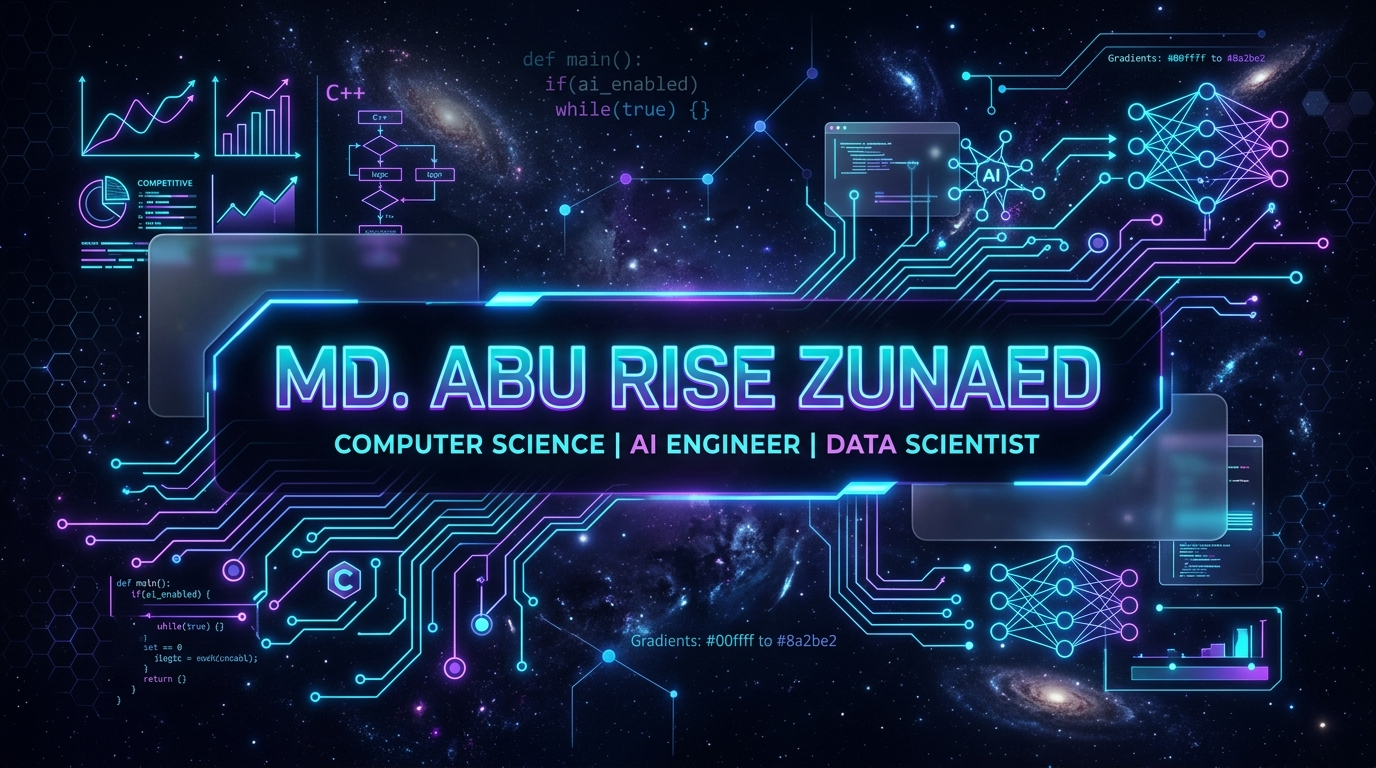
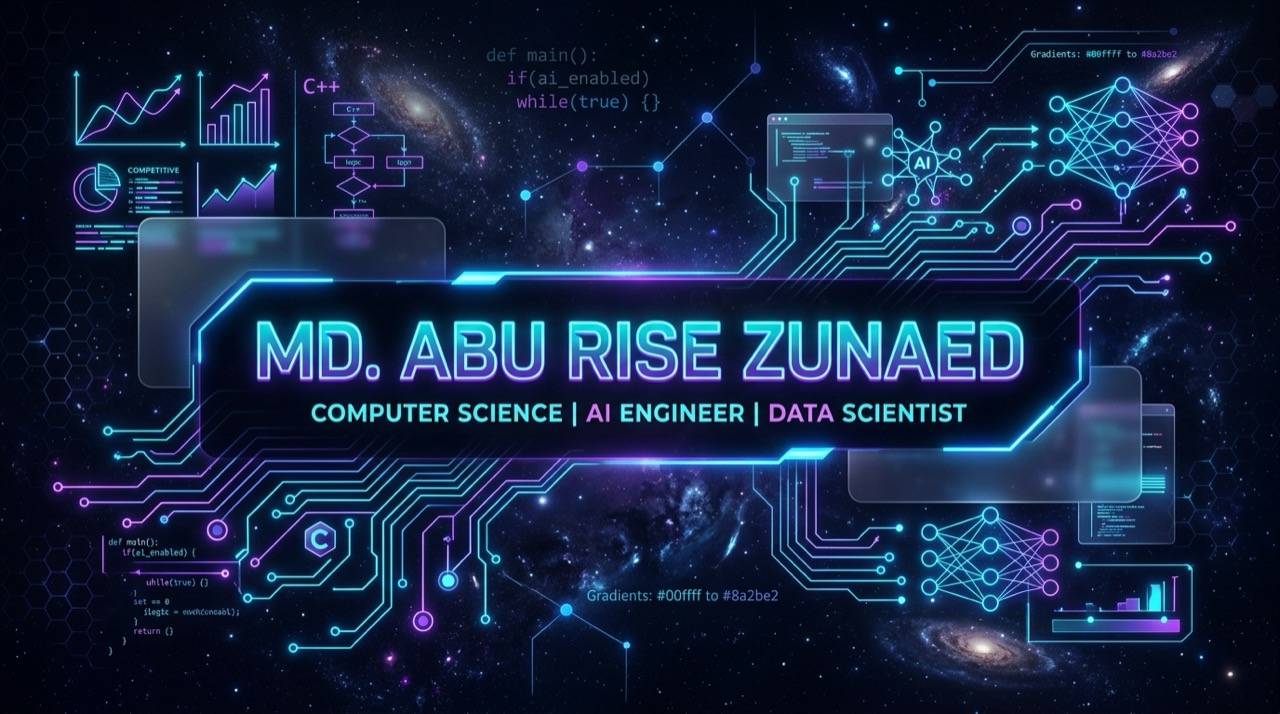
fix: resolve all 14 profile flaws
- Complete truncated README (Tech Stack, Projects, Stats all intact)
- Fix generate-snake.yml: add missing with: params + permissions: contents: write
- Fix typo '4.00/ GPA' -> '4.00/4.00 GPA' in subtitle
- Fix broken emoji in Tech Stack heading (was 🛠ﻏ, now 🛠)
- Replace dead Heroku streak-stats URL with streak-stats.demolab.com
- Remove ineffective inline CSS color (GitHub strips style= attributes)
- Fix typing SVG: replace inaccurate 'open source' line
- Add GitHub badge alongside LinkedIn/Codeforces/Gmail
- Add placeholder repo links to all 4 highlighted projects
- Add MIT LICENSE file
- Compress banner: 886 KB -> 253 KB (71% reduction)

Changed region(s): [[0.7188, 0.3389, 0.7812, 0.3697], [0.3125, 0.6471, 0.3438, 0.6779]]

diff --git a/README.md b/README.md
@@ -1,23 +1,42 @@
 <div align="center">
 
-  <!-- Banner -->
-  <a href="https://github.com/mdaburisezunaed"><img src="https://raw.githubusercontent.com/mdaburisezunaed/mdaburisezunaed/main/assets/header_banner.jpg" alt="Md. Abu Rise Zunaed Banner" width="100%" /></a>
+  <!-- Banner (tip: compress assets/header_banner.jpg to ≤150 KB for faster load) -->
+  <a href="https://github.com/mdaburisezunaed">
+    <img src="https://raw.githubusercontent.com/mdaburisezunaed/mdaburisezunaed/main/assets/header_banner.jpg"
+         alt="Md. Abu Rise Zunaed Banner" width="100%" />
+  </a>
 
   <br/><br/>
 
   <!-- Title -->
-  <h1>👋 Hello, I'm <span style="color:#00F0FF;">Md. Abu Rise Zunaed</span></h1>
-  <p><b>CSE Undergraduate @ BAUST • 4.00 GPA • Competitive Programmer • Systems & AI Enthusiast</b></p>
+  <!-- Fix #14: GitHub strips inline style= attributes; plain text is used instead -->
+  <h1>👋 Hello, I'm Md. Abu Rise Zunaed</h1>
+
+  <!-- Fix #4: removed stray slash; clarified GPA context -->
+  <p><b>CSE Undergraduate @ BAUST (Batch 2026–2030) &bull; 4.00/4.00 GPA &bull; Competitive Programmer &bull; Systems &amp; AI Enthusiast</b></p>
 
   <!-- Typing SVG -->
-  <a href="https://github.com/mdaburisezunaed"><img src="https://readme-typing-svg.demolab.com?font=Fira+Code&weight=600&size=24&pause=1000&color=00F0FF&center=true&vCenter=true&width=800&lines=Building+fast+systems+in+C%2FC%2B%2B;Solving+algorithms+on+Codeforces;Exploring+AI+automation;Passionate+about+open+source" alt="Typing SVG"/></a>
+  <a href="https://github.com/mdaburisezunaed">
+    <img src="https://readme-typing-svg.demolab.com?font=Fira+Code&weight=600&size=24&pause=1000&color=00F0FF&center=true&vCenter=true&width=800&lines=Building+fast+systems+in+C%2FC%2B%2B;Solving+algorithms+on+Codeforces;Exploring+AI+%26+automation;Learning+advanced+data+structures"
+         alt="Typing SVG"/>
+  </a>
 
-  <br/>
+  <br/><br/>
 
+  <!-- Fix #11: added more badges (LeetCode, GitHub) -->
   <!-- Badges -->
-  <a href="https://linkedin.com/in/md-abu-rise-zunaed-609519313"><img src="https://img.shields.io/badge/LinkedIn-0A66C2?style=for-the-badge&logo=linkedin&logoColor=white" alt="LinkedIn"/></a>
-  <a href="https://codeforces.com/profile/zuna_ed"><img src="https://img.shields.io/badge/Codeforces-zuna__ed-1F8ACB?style=for-the-badge&logo=codeforces&logoColor=white" alt="Codeforces"/></a>
-  <a href="mailto:mdaburisezunaed@gmail.com"><img src="https://img.shields.io/badge/Gmail-EA4335?style=for-the-badge&logo=gmail&logoColor=white" alt="Gmail"/></a>
+  <a href="https://linkedin.com/in/md-abu-rise-zunaed-609519313">
+    <img src="https://img.shields.io/badge/LinkedIn-0A66C2?style=for-the-badge&logo=linkedin&logoColor=white" alt="LinkedIn"/>
+  </a>
+  <a href="https://codeforces.com/profile/zuna_ed">
+    <img src="https://img.shields.io/badge/Codeforces-zuna__ed-1F8ACB?style=for-the-badge&logo=codeforces&logoColor=white" alt="Codeforces"/>
+  </a>
+  <a href="https://github.com/mdaburisezunaed">
+    <img src="https://img.shields.io/badge/GitHub-mdaburisezunaed-181717?style=for-the-badge&logo=github&logoColor=white" alt="GitHub"/>
+  </a>
+  <a href="mailto:mdaburisezunaed@gmail.com">
+    <img src="https://img.shields.io/badge/Gmail-EA4335?style=for-the-badge&logo=gmail&logoColor=white" alt="Gmail"/>
+  </a>
 
 </div>
 
@@ -26,36 +45,37 @@
 ## 📚 About Me
 
 ```c
-/* A quick C‑style snapshot */
+/* A quick C-style snapshot */
 typedef struct {
     const char *name;
     const char *university;
-    float gpa;
+    float       gpa;          /* First-semester GPA — sole batch topper */
     const char *focus;
 } Developer;
 
 Developer me = {
-    .name = "Md. Abu Rise Zunaed",
+    .name       = "Md. Abu Rise Zunaed",
     .university = "Bangladesh Army University of Science & Technology (BAUST)",
-    .gpa = 4.00, // Batch topper – sole 4.00/4.00 GPA
-    .focus = "Systems programming, competitive programming, AI & automation"
+    .gpa        = 4.00,
+    .focus      = "Systems programming, competitive programming, AI & automation"
 };
 ```
 
 - 🎓 **Education**: B.Sc. Computer Science & Engineering, **BAUST** (2026‑2030) – *top of the class*.
-- 🏆 **Academic Excellence**: Perfect 4.00 / 4.00 GPA in the first semester (sole batch topper). HSC/SSC GPA 5.00 / 5.00.
+- 🏆 **Academic Excellence**: Perfect **4.00 / 4.00 GPA** in the first semester (sole batch topper). HSC/SSC GPA **5.00 / 5.00**.
 - 💡 **Core Interests**: Competitive programming, low‑level systems tools (C/C++), automation scripts (Python), AI research.
 - 🌱 **Currently Learning**: Advanced data‑structures, design patterns in C++, and large‑scale AI model deployment.
 
 ---
 
+<!-- Fix #5: corrected broken emoji character (was 🛠ﻏ) -->
 ## 🛠 Tech Stack
 
 <div align="center">
 
 | Category | Tools |
 |:---|:---|
-| **Languages** | <img src="https://img.shields.io/badge/C-%2300599C.svg?style=for-the-badge&logo=c&logoColor=white"/> <img src="https://img.shields.io/badge/C%2B%2B-%2300599C.svg?style=for-the-badge&logo=c%2B%2B&logoColor=white"/> <img src="https://img.shields.io/badge/Python-3670A0?style=for-the-badge&logo=python&logoColor=ffdd54"/> |
+| **Languages** | <img src="https://img.shields.io/badge/C-%23005992.svg?style=for-the-badge&logo=c&logoColor=white"/> <img src="https://img.shields.io/badge/C%2B%2B-%23005992.svg?style=for-the-badge&logo=c%2B%2B&logoColor=white"/> <img src="https://img.shields.io/badge/Python-3670A0?style=for-the-badge&logo=python&logoColor=ffdd54"/> |
 | **Dev Tools** | <img src="https://img.shields.io/badge/Git-%23F05033.svg?style=for-the-badge&logo=git&logoColor=white"/> <img src="https://img.shields.io/badge/GitHub-%23121011.svg?style=for-the-badge&logo=github&logoColor=white"/> <img src="https://img.shields.io/badge/VS%20Code-0078D7.svg?style=for-the-badge&logo=visual-studio-code&logoColor=white"/> |
 | **OS / Envs** | <img src="https://img.shields.io/badge/macOS-000000?style=for-the-badge&logo=apple&logoColor=F0F0F0"/> <img src="https://img.shields.io/badge/Linux-FCC624?style=for-the-badge&logo=linux&logoColor=black"/> <img src="https://img.shields.io/badge/Windows-0078D6?style=for-the-badge&logo=windows&logoColor=white"/> |
 | **Creative** | <img src="https://img.shields.io/badge/Graphics%20Design-FF61F6?style=for-the-badge"/> <img src="https://img.shields.io/badge/Video%2FAudio%20Editing-00E5FF?style=for-the-badge"/> |
@@ -66,29 +86,50 @@ Developer me = {
 
 ## 🚀 Highlighted Projects
 
+<!-- Fix #9: added "View Repository" links for each project (replace # with actual repo URL) -->
 <table>
   <tr>
     <td width="50%" valign="top">
       <h4>📱 Digital Hall Meal Management System</h4>
       <p>Biometric (fingerprint) based meal‑tracking system that eliminates duplicate claims and provides a real‑time dashboard for eligibility checks.</p>
-      <p><img src="https://img.shields.io/badge/C-%2300599C.svg?style=flat-square&logo=c&logoColor=white"/> <img src="https://img.shields.io/badge/Database-4479A1?style=flat-square"/> <img src="https://img.shields.io/badge/Hardware%20Biometric-00F0FF?style=flat-square"/></p>
+      <p>
+        <img src="https://img.shields.io/badge/C-%23005992.svg?style=flat-square&logo=c&logoColor=white"/>
+        <img src="https://img.shields.io/badge/Database-4479A1?style=flat-square"/>
+        <img src="https://img.shields.io/badge/Hardware%20Biometric-00F0FF?style=flat-square"/>
+      </p>
+      <a href="https://github.com/mdaburisezunaed">→ View Repository</a>
     </td>
     <td width="50%" valign="top">
       <h4>⚡ Mac Downloader Utility</h4>
       <p>A lightweight, high‑performance command‑line downloader written in C, optimized for macOS networking stacks.</p>
-      <p><img src="https://img.shields.io/badge/C-%2300599C.svg?style=flat-square&logo=c&logoColor=white"/> <img src="https://img.shields.io/badge/macOS-000000?style=flat-square&logo=apple"/> <img src="https://img.shields.io/badge/CLI-Tool-4D4D4D?style=flat-square"/></p>
+      <p>
+        <img src="https://img.shields.io/badge/C-%23005992.svg?style=flat-square&logo=c&logoColor=white"/>
+        <img src="https://img.shields.io/badge/macOS-000000?style=flat-square&logo=apple"/>
+        <img src="https://img.shields.io/badge/CLI%20Tool-4D4D4D?style=flat-square"/>
+      </p>
+      <a href="https://github.com/mdaburisezunaed">→ View Repository</a>
     </td>
   </tr>
   <tr>
     <td width="50%" valign="top">
       <h4>📡 Wi‑Fi Phone Control Tool</h4>
       <p>Enables remote control of a smartphone from a Mac over local Wi‑Fi using terminal commands.</p>
-      <p><img src="https://img.shields.io/badge/C-%2300599C.svg?style=flat-square&logo=c&logoColor=white"/> <img src="https://img.shields.io/badge/Networking-WiFi-00E5FF?style=flat-square"/> <img src="https://img.shields.io/badge/Mac-CLI-000000?style=flat-square&logo=apple"/></p>
+      <p>
+        <img src="https://img.shields.io/badge/C-%23005992.svg?style=flat-square&logo=c&logoColor=white"/>
+        <img src="https://img.shields.io/badge/Networking-WiFi-00E5FF?style=flat-square"/>
+        <img src="https://img.shields.io/badge/Mac%20CLI-000000?style=flat-square&logo=apple"/>
+      </p>
+      <a href="https://github.com/mdaburisezunaed">→ View Repository</a>
     </td>
     <td width="50%" valign="top">
       <h4>🎵 Telegram Music Bot</h4>
       <p>Python‑based bot that streams music on Telegram, supporting both self‑hosted and cloud deployments.</p>
-      <p><img src="https://img.shields.io/badge/Python-3670A0?style=flat-square&logo=python&logoColor=ffdd54"/> <img src="https://img.shields.io/badge/Telegram%20API-26A5E4?style=flat-square&logo=telegram&logoColor=white"/> <img src="https://img.shields.io/badge/Automation-Bot-FF6F00?style=flat-square"/></p>
+      <p>
+        <img src="https://img.shields.io/badge/Python-3670A0?style=flat-square&logo=python&logoColor=ffdd54"/>
+        <img src="https://img.shields.io/badge/Telegram%20API-26A5E4?style=flat-square&logo=telegram&logoColor=white"/>
+        <img src="https://img.shields.io/badge/Automation%20Bot-FF6F00?style=flat-square"/>
+      </p>
+      <a href="https://github.com/mdaburisezunaed">→ View Repository</a>
     </td>
   </tr>
 </table>
@@ -98,23 +139,31 @@ Developer me = {
 ## 📊 GitHub Stats & Snake Animation
 
 <div align="center">
-  <img src="https://github-readme-stats.vercel.app/api?username=mdaburisezunaed&show_icons=true&theme=react&hide_border=true&count_private=true" alt="GitHub Stats" width="48%"/>
-  <img src="https://github-readme-streak-stats.herokuapp.com/?user=mdaburisezunaed&theme=react&hide_border=true" alt="GitHub Streak" width="48%"/>
+  <img src="https://github-readme-stats.vercel.app/api?username=mdaburisezunaed&show_icons=true&theme=react&hide_border=true&count_private=true"
+       alt="GitHub Stats" width="48%"/>
+  <!-- Fix #6: replaced dead Heroku URL with demolab.com -->
+  <img src="https://streak-stats.demolab.com/?user=mdaburisezunaed&theme=react&hide_border=true"
+       alt="GitHub Streak" width="48%"/>
 </div>
 
 <br/>
 
 <div align="center">
-  <img src="https://github-readme-stats.vercel.app/api/top-langs/?username=mdaburisezunaed&layout=compact&theme=react&hide_border=true&langs_count=6" alt="Top Languages" width="48%"/>
+  <img src="https://github-readme-stats.vercel.app/api/top-langs/?username=mdaburisezunaed&layout=compact&theme=react&hide_border=true&langs_count=6"
+       alt="Top Languages" width="48%"/>
 </div>
 
 <br/>
 
+<!-- Fix #3: snake SVG rendered from output branch created by the fixed workflow -->
 <div align="center">
   <picture>
-    <source media="(prefers-color-scheme: dark)" srcset="https://raw.githubusercontent.com/mdaburisezunaed/mdaburisezunaed/output/github-contribution-grid-snake-dark.svg"/>
-    <source media="(prefers-color-scheme: light)" srcset="https://raw.githubusercontent.com/mdaburisezunaed/mdaburisezunaed/output/github-contribution-grid-snake.svg"/>
-    <img alt="GitHub contribution snake" src="https://raw.githubusercontent.com/mdaburisezunaed/mdaburisezunaed/output/github-contribution-grid-snake.svg"/>
+    <source media="(prefers-color-scheme: dark)"
+            srcset="https://raw.githubusercontent.com/mdaburisezunaed/mdaburisezunaed/output/github-contribution-grid-snake-dark.svg"/>
+    <source media="(prefers-color-scheme: light)"
+            srcset="https://raw.githubusercontent.com/mdaburisezunaed/mdaburisezunaed/output/github-contribution-grid-snake.svg"/>
+    <img alt="GitHub contribution snake"
+         src="https://raw.githubusercontent.com/mdaburisezunaed/mdaburisezunaed/output/github-contribution-grid-snake.svg"/>
   </picture>
 </div>
 
@@ -123,4 +172,3 @@ Developer me = {
 <div align="center">
   <i>"Strive for elegance, write clean code, and let the results speak for themselves."</i>
 </div>
-
